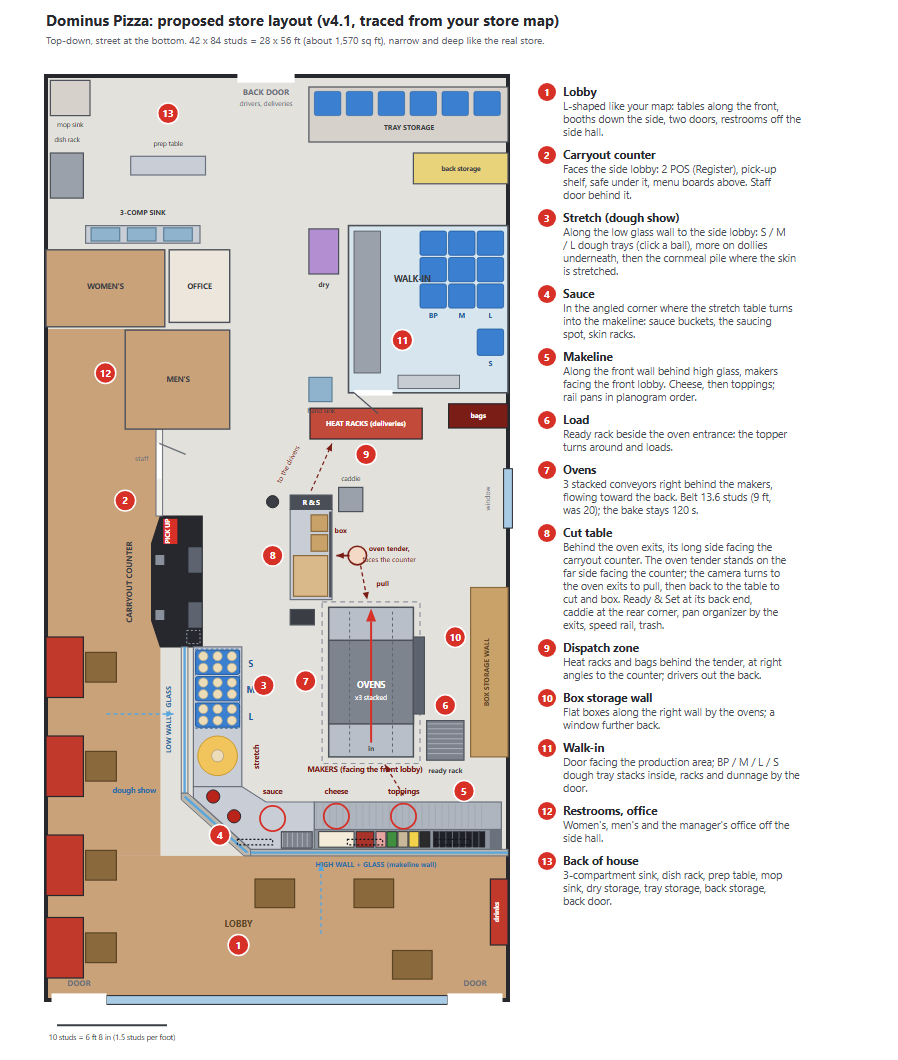
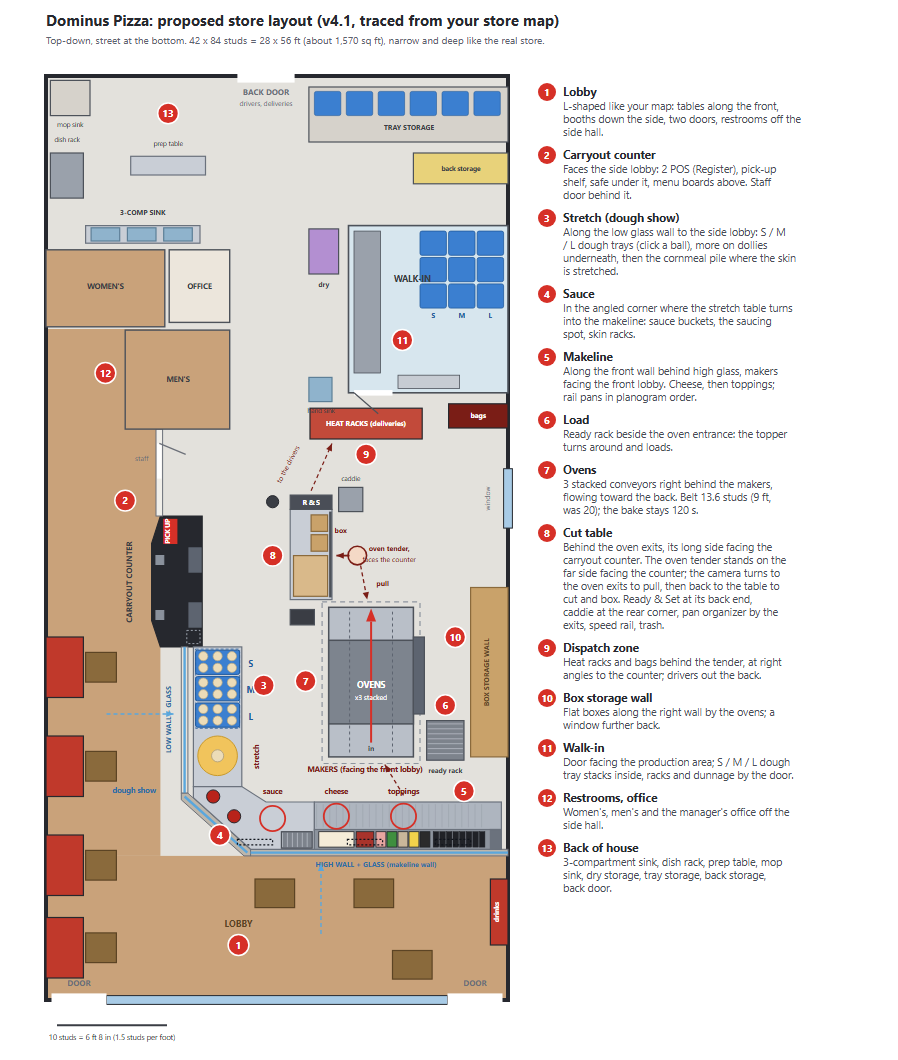
Docs: plan v4.1 without BP dough (the game has S/M/L only)

Changed region(s): [[0.5924, 0.716, 0.9042, 0.8717], [0.5301, 0.3113, 0.5612, 0.3425]]

diff --git a/HANDOFF.md b/HANDOFF.md
@@ -18,7 +18,7 @@ Read `CLAUDE.md` first (architecture, conventions, every design decision). This 
 The user sent 20 reference photos (Domino's slap table, dough trays, makeline + food pans, load/cut tables, ovens, front counter; not in the repo) and a make-process video (`C:\Users\devin\Downloads\Download.mp4`: ball from the tray -> slapped in a cornmeal pile -> stretched -> sauced right beside it at the makeline start, ~17 s). Their asks and answers (AskUserQuestion, all the recommended options):
 1. DONE (batch 1): remove the truck; presses 3/4/5; the portion chart + cheese; follow the top pizza instead of Next (stations bar parks you, Follow resumes).
 2. Dough trays: 3D trays of dough balls per size on the slap table; picking a size = clicking a ball in that size's tray; the ball moves into the cornmeal; a tray restocks when emptied. When the size is set (following), only that tray is lit and clickable; prepping ahead, every tray is.
-3. Layout: no gap between the slap table and the makeline; store layout like a traditional Domino's. History: v1 (Claude's) rejected; v2 redrawn from the user's store-layout documents (digest in CLAUDE.md, Design references); the user marked up v2 (merge the cornmeal and hand-stretch tables, sauce where the hand-stretch table was; the oven tender at the cut table facing the customers, the cut table inside the production area, not isolated; ovens in the middle flowing toward the cut table), then sent a real store's chore-chart map (pasted in chat, not saved) and said it was "perfect". **v4** (`docs/floorplan.svg` / `.png`) traces that map at 1.5 studs per foot: **footprint 42 x 84 studs (28 x 56 ft), narrow and deep** (lots must be re-spaced: lot 1's parking and driveway move behind the deeper store; lots 2-5 fit). Street at +Z. L-shaped lobby (front tables, booths down the left side, two front doors, restrooms off the side hall); carryout counter facing the side lobby (POS = Register, pick-up shelf, safe, staff door behind it); production is an L: stretch table along the side lobby's low glass wall (S/M/L trays at the back end, dollies under, cornmeal pile toward the front), sauce in the angled corner (buckets, saucing spot, skin racks), makeline along the front wall behind high glass with makers facing the front lobby (cheese, toppings); ovens (3 stacked, belt 13.6 studs = 9 ft instead of 20, bake still 120 s) right behind the makers conveying toward the back; ready rack (Load) beside the oven entrance; cut table (v4.1, the user's last change) behind the oven exits with its long side facing the carryout counter, the oven tender on the far side facing the counter: the station camera turns to the exits to pull, then back to the table to cut and box (Ready & Set at the table's back end, caddie at the rear corner, pan organizer by the exits, speed rail); dispatch zone (heat racks, bags) behind the tender at right angles to the counter; box storage wall on the right wall; walk-in behind dispatch with its door facing production (BP/M/L/S tray stacks); women's, men's, office off the side hall; 3-compartment sink, dish rack, prep table, mop sink, dry storage, tray storage, back storage, back door at the back. The user likes v4.1 ("for now, I do really like what you have"); confirm the go-ahead, then build it.
+3. Layout: no gap between the slap table and the makeline; store layout like a traditional Domino's. History: v1 (Claude's) rejected; v2 redrawn from the user's store-layout documents (digest in CLAUDE.md, Design references); the user marked up v2 (merge the cornmeal and hand-stretch tables, sauce where the hand-stretch table was; the oven tender at the cut table facing the customers, the cut table inside the production area, not isolated; ovens in the middle flowing toward the cut table), then sent a real store's chore-chart map (pasted in chat, not saved) and said it was "perfect". **v4** (`docs/floorplan.svg` / `.png`) traces that map at 1.5 studs per foot: **footprint 42 x 84 studs (28 x 56 ft), narrow and deep** (lots must be re-spaced: lot 1's parking and driveway move behind the deeper store; lots 2-5 fit). Street at +Z. L-shaped lobby (front tables, booths down the left side, two front doors, restrooms off the side hall); carryout counter facing the side lobby (POS = Register, pick-up shelf, safe, staff door behind it); production is an L: stretch table along the side lobby's low glass wall (S/M/L trays at the back end, dollies under, cornmeal pile toward the front), sauce in the angled corner (buckets, saucing spot, skin racks), makeline along the front wall behind high glass with makers facing the front lobby (cheese, toppings); ovens (3 stacked, belt 13.6 studs = 9 ft instead of 20, bake still 120 s) right behind the makers conveying toward the back; ready rack (Load) beside the oven entrance; cut table (v4.1, the user's last change) behind the oven exits with its long side facing the carryout counter, the oven tender on the far side facing the counter: the station camera turns to the exits to pull, then back to the table to cut and box (Ready & Set at the table's back end, caddie at the rear corner, pan organizer by the exits, speed rail); dispatch zone (heat racks, bags) behind the tender at right angles to the counter; box storage wall on the right wall; walk-in behind dispatch with its door facing production (S/M/L tray stacks; the game has no BP dough); women's, men's, office off the side hall; 3-compartment sink, dish rack, prep table, mop sink, dry storage, tray storage, back storage, back door at the back. The user likes v4.1 ("for now, I do really like what you have"); confirm the go-ahead, then build it.
 4. 3D models from Blender to replace the code-built art: load table (with pizza racks), makeline (food fully modelled in the pans), slap table (sauce buckets, pizza racks, dough trays + balls), cut table, ovens with the belt and pulleys fully modelled and animated; then "everything else if possible". Upload route: a free Open Cloud key (user's choice) - the user sets `ROBLOX_API_KEY` and `ROBLOX_USER_ID` themselves (never pasted into chat), then the roblox-3d-model skill's `upload_asset.py` uploads Model (FBX/GLB) + Image assets. Hard-surface equipment is scripted in Blender Python (parametric, one mesh per material so Roblox materials do the steel), not the Hi3DGen pipeline. Getting meshes into the game: record the inner mesh ids in a `MeshBank.luau` and build per store at runtime with `AssetService:CreateMeshPartAsync` (or bake templates into `ServerStorage/StationModels`, which `StationArt.Build` already prefers); Rojo can't carry MeshParts. Oven belt: animate client-side (rods/links moving with the bake speed, rollers turning).
 
 ## Verified in Studio (scripted, 2026-10-19)
